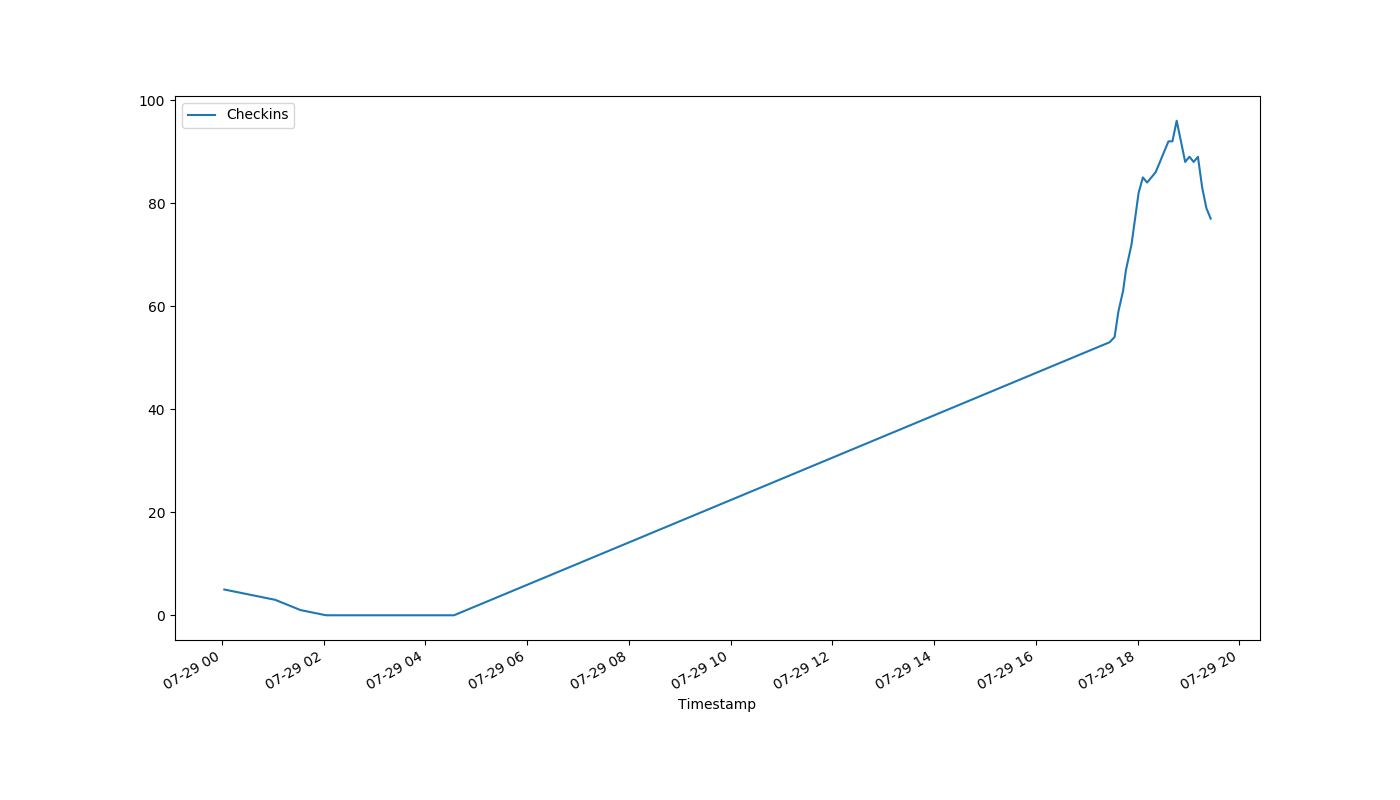
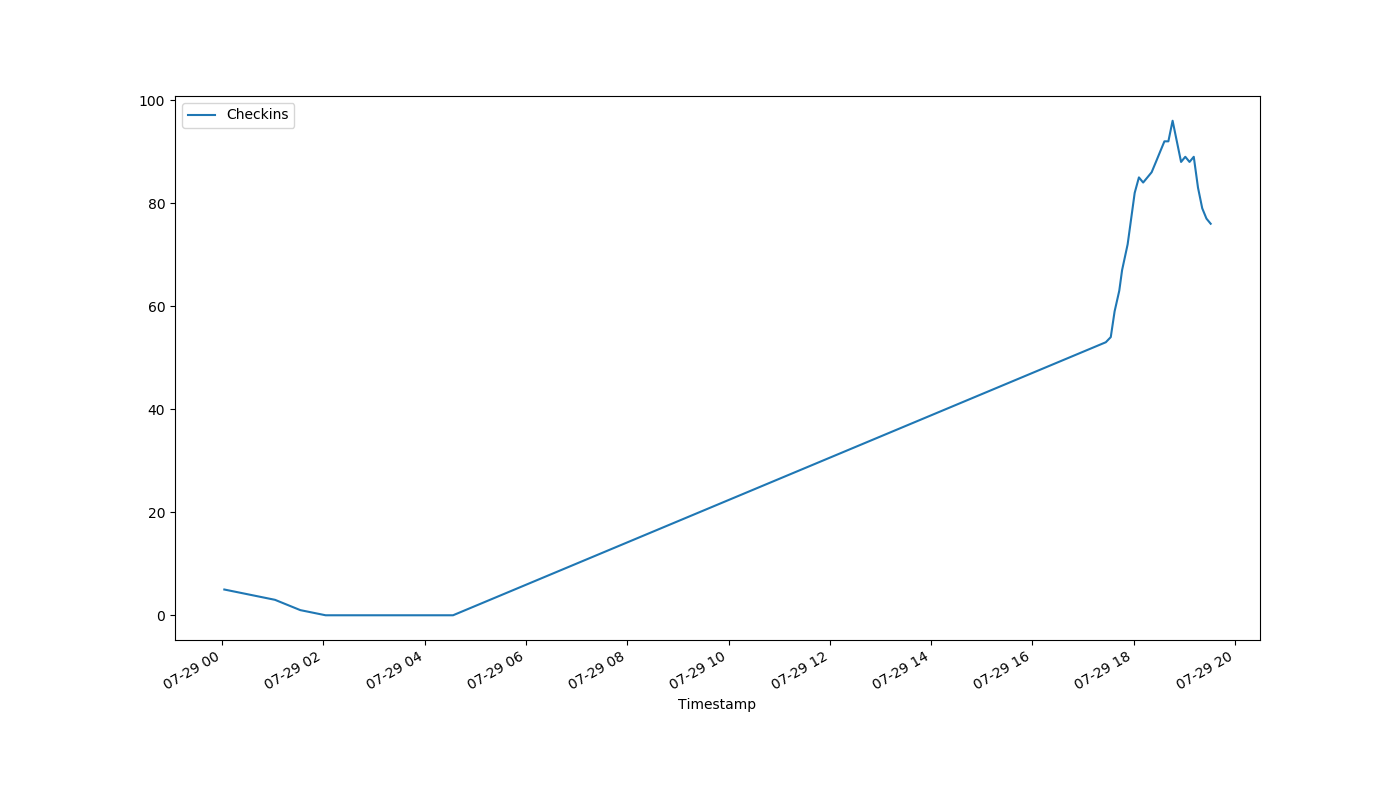
auto-Jul-29-19:32:19

diff --git a/index.html b/index.html
@@ -1,1 +1,1 @@
-<!DOCTYPE html><html><head><meta http-equiv="refresh" content="30"><link rel='stylesheet' href='holmcurrent.css'></head><body><p id='count'>77</p><div id='graph-wrap'><img id='graph' src='holmgraph-Jul-29.png'></div><p id='updated'>Last updated 19:27:03 / 19:26:07</p></body></html>
+<!DOCTYPE html><html><head><meta http-equiv="refresh" content="30"><link rel='stylesheet' href='holmcurrent.css'></head><body><p id='count'>76</p><div id='graph-wrap'><img id='graph' src='holmgraph-Jul-29.png'></div><p id='updated'>Last updated 19:32:04 / 19:31:07</p></body></html>
